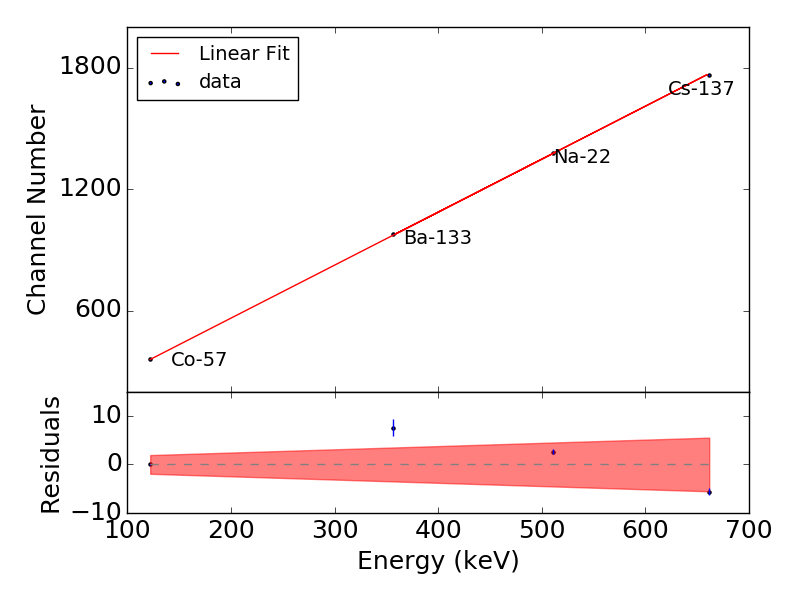
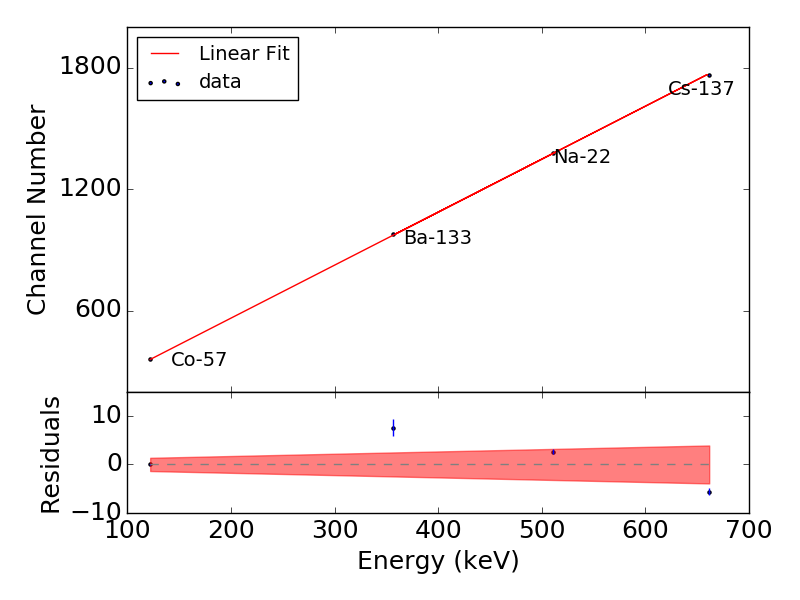
Added the nishina scritp

Changed region(s): [[0.1875, 0.72, 0.9062, 0.84]]

diff --git a/scripts/peak_finder.py b/scripts/peak_finder.py
@@ -14,7 +14,7 @@ def peak_finder(sup_path, bins, plot = True):
     '''
     data = gf.collapse_data(ft.get_data(path.join(sup_path, "02_Tungsten")))
     x = np.linspace(0,2047,2048)
-    background = nsp.fitter(path.join(sup_path), plot = True)
+    background = nsp.fitter(path.join(sup_path), plot = False)
     corr_data = data-(background*30/12)
 
     # noise_function = interp1d(x, noise)
@@ -24,28 +24,32 @@ def peak_finder(sup_path, bins, plot = True):
     
     # NOISE UNCERTAINTY
     res = curve_fit(gf.total_fit, x[bins[0]:bins[1]], corr_data[bins[0]:bins[1]], 
-            p0 = [np.mean(bins), 10, 10, 1], sigma = np.sqrt(data[bins[0]:bins[1]] + 30/12*background[bins[0]:bins[1]]), bounds = (0,1e5))
+            p0 = [np.mean(bins), 10, 10, 1], sigma = np.sqrt(data[bins[0]:bins[1]] +\
+                30/12*background[bins[0]:bins[1]]), bounds = (0,1e5))
     popt = res[0]
     unc = np.sqrt(np.diag(res[1]))
+    chi_sqd = np.sum((corr_data[bins[0]:bins[1]]-\
+        gf.total_fit(x[bins[0]:bins[1]], *popt))**2/(data[bins[0]:bins[1]] +\
+            30/12*background[bins[0]:bins[1]])) / (len(corr_data[bins[0]:bins[1]]) - 4)
     
     if plot: 
         plt.clf()
         plt.rcParams.update({'font.size': 18})
         fig, axs = plt.subplots(2, sharex=True, sharey=False, gridspec_kw = {'height_ratios': [3,1],'wspace':0, 'hspace':0})
 
-        # plt.ylim(0,180)
+        plt.ylim(0,180)
         plt.xlim(bins[0],bins[1])
         axs[0].scatter(x, corr_data, marker = '.', label = 'data')
         axs[0].plot(x, gf.total_fit(x, *popt), color = 'red', label = 'Gaussian fit')
         max = popt+unc
         min = np.clip(popt-unc,1e-15,None)
         max[0], max[2], min[0], min[2] = popt[0], popt[2], popt[0], popt[2]
-        axs[0].plot(x, gf.total_fit(x, *max), color = 'red',linestyle = '--')
-        axs[0].plot(x, gf.total_fit(x, *min), color = 'red',linestyle = '--')
+        # axs[0].plot(x, gf.total_fit(x, *max), color = 'red',linestyle = '--')
+        # axs[0].plot(x, gf.total_fit(x, *min), color = 'red',linestyle = '--')
         axs[0].errorbar(x, corr_data, yerr = np.sqrt(data + 30/12*background), 
                         linestyle = "None",capsize=0)
         axs[0].set_ylabel('Counts')
-        axs[0].set_ylim(-20,120)
+        axs[0].set_ylim(-20,150)
         axs[0].set_yticks([0,100])
         axs[0].legend(fontsize=14)
 
@@ -55,15 +59,15 @@ def peak_finder(sup_path, bins, plot = True):
         axs[1].set_ylabel('Residuals') #, position = (0,0))
         plt.xlabel('Channel number')
         axs[1].plot(x,np.zeros(len(x)), color='grey', linestyle = '--')
-        axs[1].fill_between(x, gf.total_fit(x, *popt)-gf.total_fit(x, *max),
-                             gf.total_fit(x, *popt)-gf.total_fit(x, *min), color = 'red', alpha = 0.5)
+        # axs[1].fill_between(x, gf.total_fit(x, *popt)-gf.total_fit(x, *max),
+        #                      gf.total_fit(x, *popt)-gf.total_fit(x, *min), color = 'red', alpha = 0.5)
         axs[1].set_yticks([-20,0,20])
-        axs[1].set_ylim(-40,40)
+        axs[1].set_ylim(-50,50)
         plt.subplots_adjust(wspace=0, hspace=0)
         plt.tight_layout()
-        plt.xlim(bins[0],bins[1])
+        # plt.xlim(bins[0],bins[1])
 
-
+        print(chi_sqd)
         plt.savefig(path.join(sup_path + 'gaussian.png'))
         # plt.show()
         plt.close()

diff --git a/scripts/gaussian_fitter.py b/scripts/gaussian_fitter.py
@@ -38,7 +38,7 @@ def plotter(num, key, guess_mean, guess_width = 2, guess_height=1, plot = True):
     # The uncertainty of the fit
     uncertainty = np.sqrt(np.diag(res[1]))
     # Chi Squared
-    chi_sqd = np.sum((y-total_fit(x, *popt))**2/np.sqrt(y))
+    chi_sqd = np.sum((y-total_fit(x, *popt))**2/y)/(len(y)-4)
     # Plotting the fit
     if plot:
         plt.clf() #clear the figure
@@ -66,7 +66,7 @@ def plotter(num, key, guess_mean, guess_width = 2, guess_height=1, plot = True):
         axs[1].set_ylabel('Residuals') #, position = (0,0))
         plt.xlabel('Channel number')
         axs[1].plot(x,np.zeros(len(x)), color='grey', linestyle = '--')
-        axs[1].fill_between(x, total_fit(x, *popt)-total_fit(x, *max), total_fit(x, *popt)-total_fit(x, *min), color = 'red', alpha = 0.5)
+        # axs[1].fill_between(x, total_fit(x, *popt)-total_fit(x, *max), total_fit(x, *popt)-total_fit(x, *min), color = 'red', alpha = 0.5)
         axs[1].set_yticks([-20,0,20])
         plt.subplots_adjust(wspace=0, hspace=0)
         plt.tight_layout()
@@ -74,7 +74,7 @@ def plotter(num, key, guess_mean, guess_width = 2, guess_height=1, plot = True):
         plt.savefig('../figures/{}_gaussian.png'.format(key))
         # plt.show()
         plt.close()
-    # print(popt, uncertainty)
+    # print(chi_sqd)
     return [popt[0], uncertainty[0]]
 
 def reverse_line(x,a,b):
@@ -93,7 +93,7 @@ def line_fit(points_y, litterature, angle, plot = True):
     res = curve_fit(reverse_line, litterature[0], points_y[:,0],  p0 = [0.29, -25], sigma = points_y[:,1])
     popt = res[0]
     uncertainty = np.sqrt(np.diag(res[1]))
-    chi_sqd = np.sum((points_y[:,0]-reverse_line(litterature[0], *popt))**2/points_y[:,1])
+    chi_sqd = np.sum((points_y[:,0]-reverse_line(litterature[0], *popt))**2/points_y[:,1]**2)/(2)
     if plot:
         # plot the line
         plt.clf()
@@ -118,8 +118,8 @@ def line_fit(points_y, litterature, angle, plot = True):
         linspace = np.linspace(np.min(litterature[0]),np.max(litterature[0]),1000)
         axs[1].scatter(litterature[0],points_y[:,0]-reverse_line(litterature[0], *popt),  marker = '.')
         axs[1].errorbar(litterature[0],points_y[:,0]-reverse_line(litterature[0], *popt),  yerr = points_y[:,1], linestyle = "None",capsize=0)
-        axs[1].fill_between(linspace, reverse_line(linspace, *popt)-reverse_line(linspace, *max),
-                             reverse_line(linspace, *popt)-reverse_line(linspace, *min), color = 'red', alpha = 0.5)
+        axs[1].fill_between(linspace, (reverse_line(linspace, *popt)-reverse_line(linspace, *max))/np.sqrt(2),
+                             (reverse_line(linspace, *popt)-reverse_line(linspace, *min))/np.sqrt(2), color = 'red', alpha = 0.5)
         axs[1].plot(linspace,np.zeros(len(linspace)), color='grey', linestyle = '--')
         axs[1].set_yticks([-10,0,10])
         axs[1].set_ylabel('Residuals')
@@ -127,7 +127,7 @@ def line_fit(points_y, litterature, angle, plot = True):
         plt.xlabel('Energy (keV)')
         plt.tight_layout()
         plt.savefig('../data/tungsten/Angles/{}/line.png'.format(angle))
-    print(popt, uncertainty)
+    print(popt, uncertainty, chi_sqd)
     return popt, uncertainty
 
 # def calibrator_fit(data):

diff --git a/scripts/nishina.py b/scripts/nishina.py
@@ -1,0 +1,57 @@
+import numpy as np 
+import matplotlib.pyplot as plt 
+import gaussian_fitter as gf 
+import file_tools as ft
+import peak_finder as pf
+from os import path
+import uncertainties as un
+import scipy.constants as con
+from scipy.optimize import curve_fit
+
+def thomson(theta, a):
+    theta = theta*np.pi/180 - np.pi
+    r0 = con.physical_constants['classical electron radius'][0]
+    delta_omega = 1 # we will fit for it
+    return (1/2)*r0**2*(1 + np.cos(theta)**2)*a
+
+def nishina(theta, a):
+    thom = thomson(theta, a)
+    theta = theta*np.pi/180 - np.pi
+    Ei = 661.657e3*con.e
+    alpha = Ei/(con.m_e*con.c**2)
+    k_n = (1+(alpha**2*(1-np.cos(theta))**2)/((1+np.cos(theta)**2)*(1+alpha*(1-np.cos(theta)))))/(1+alpha*(1-np.cos(theta)))**2
+    value = a*k_n*thom
+    return value
+    
+
+if __name__ == '__main__':
+    peaks=[]
+    uncertainty = []
+    bins = [[500,700],[600,800],[700,950],[750,1050],[1200,1550]]
+    angles = [55,75,95,105,220]
+    rates = []
+    rates_uncertainties = []
+    for i in range(len(angles)):
+        res = pf.peak_finder(path.join('../data', 'tungsten/Angles/{}/'.format(angles[i])), [bins[i][0], bins[i][1]], plot=False)
+        a_0 = un.ufloat(res[0][2], res[1][2])
+        sigma = un.ufloat(res[0][1],res[1][1])
+        total_time = un.ufloat(30,2)*30
+        rate = (a_0*sigma*np.sqrt(2*np.pi)/total_time) 
+        rates.append(rate.nominal_value)
+        rates_uncertainties.append(rate.std_dev)
+    
+    x = np.linspace(0,360,1000)
+    res1 = curve_fit(nishina, angles, rates, p0 = [1e30], sigma = rates_uncertainties)
+    res2 = curve_fit(thomson, angles, rates, p0 = [1e30], sigma = rates_uncertainties)
+    
+    plt.figure()
+    plt.plot(x, nishina(x, res1[0][0]), label = 'Klein-Nishina')  
+    plt.plot(x, thomson(x, res2[0][0]), label = 'Thomson')  
+    plt.scatter(angles,  rates, label = 'data')
+    plt.errorbar(angles,  rates, yerr =  rates_uncertainties, xerr = 1.5*np.ones(len(angles)), ls = 'none', color = 'b')
+    plt.xlim(0, 360)
+    plt.xlabel(r'Angle $(^\circ)$')
+    plt.ylabel('Detection Rate (photons/s)')
+    plt.legend()
+    plt.savefig('../figures/nishina.png')
+    plt.show()

diff --git a/scripts/mass_calculator.py b/scripts/mass_calculator.py
@@ -36,7 +36,8 @@ if __name__ == '__main__':
         a = ufloat(coef[0], unc[0])
         b = ufloat(coef[1], unc[1])
 
-        temp_mass = mass_electron(ufloat(peaks_data['peaks'][i], peaks_data['uncertainty'][i]), a, b, ufloat(peaks_data['angles'][i], 0.1) )
+        temp_mass = mass_electron(ufloat(peaks_data['peaks'][i], peaks_data['uncertainty'][i]), a, b,
+                 ufloat(peaks_data['angles'][i], 1.5) )
         temp_mass = dict(zip(["nominal_value", "std_dev"], [temp_mass.nominal_value, temp_mass.std_dev]))
         mass.append(temp_mass) 
         print('theta = {} deg -> mass = {} kg'.format( peaks_data['angles'][i], temp_mass))
@@ -45,14 +46,14 @@ if __name__ == '__main__':
         plt.errorbar(i+1, temp_mass["nominal_value"], yerr = temp_mass["std_dev"], linewidth = 3, capsize=10)
 
     avg = np.average([x["nominal_value"] for x in mass], weights= [x["std_dev"]**-2 for x in mass])
-    std = np.std([x["nominal_value"] for x in mass])
-    # std = 1/np.sqrt(np.sum([x["std_dev"]**-2 for x in mass]))
+    # std = np.std([x["nominal_value"] for x in mass])
+    std = 1/np.sqrt(np.sum([x["std_dev"]**-2 for x in mass]))
     plt.plot(np.linspace(0,359,360), np.ones(360)*avg, linestyle = '--')
-    plt.fill_between(np.linspace(0,359,360), np.ones(360)*avg-std,np.ones(360)*avg+std, color = 'orange', alpha = 0.5)
-    plt.ylim(0.49, 0.54)
+    plt.fill_between(np.linspace(0,359,360), np.ones(360)*avg-std,np.ones(360)*avg+std, color = 'red', alpha = 0.3)
+    plt.ylim(0.47, 0.56)
     plt.xlim(0,6)
     plt.legend(['Avg',r'$55^\circ$',r'$75^\circ$',r'$95^\circ$',r'$125^\circ$',r'$220^\circ$'], fontsize = 12, loc='lower left')
-    plt.ylabel('Mass (MeV)')
+    plt.ylabel(r'Mass (MeV/$c^2$)')
     plt.xticks([])
     plt.tight_layout()
     plt.savefig('../figures/mass.png')
